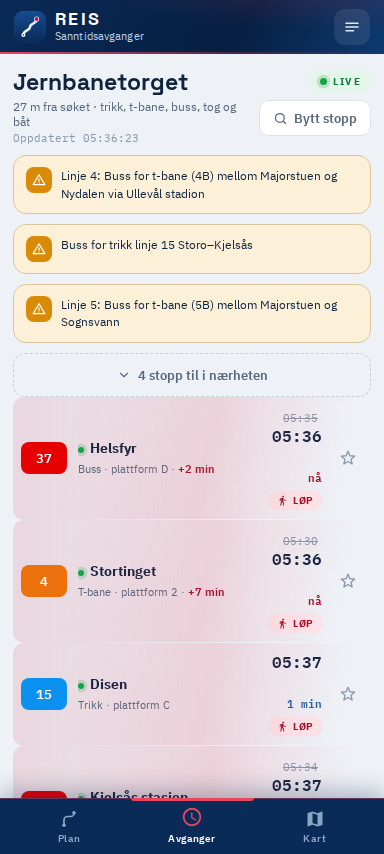
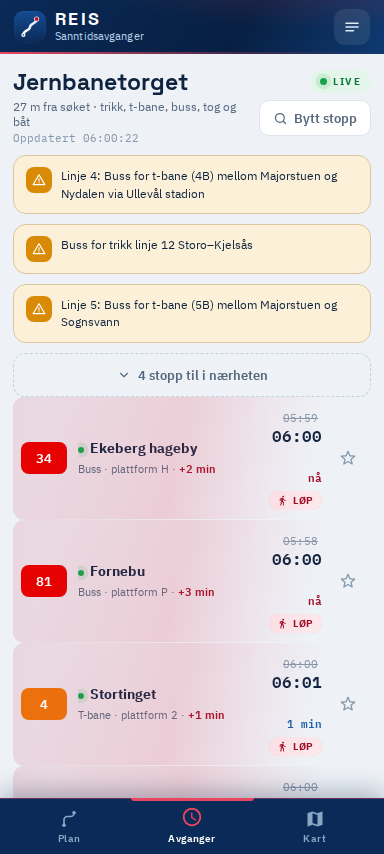
Add files via upload

diff --git a/index.html b/index.html
@@ -1899,38 +1899,76 @@ async function autocomplete(text,focus){
   /* size:8 ga typisk ÉN holdeplass og sju POI-er – stoppet druknet. Vi henter
      flere og sorterer holdeplasser først, siden det er dem folk søker etter i
      en reiseapp. */
-  const q=new URLSearchParams({text,lang:'no',size:'20',layers:'venue,address,street,locality'});
-  const f=focus||state.userPos;
-  if(f&&f.lat){q.set('focus.point.lat',f.lat);q.set('focus.point.lon',f.lon)}
+  /* «Holtet» finnes 19 steder i Norge. Uten et fokuspunkt kommer de i tilfeldig
+     rekkefølge og fyller hele lista – da så det ut som om trikkeholdeplassen
+     ikke fantes. Vi faller nå tilbake på kartets midtpunkt, valgt holdeplass
+     eller Oslo, slik at nære treff alltid vinner. */
+  const q=new URLSearchParams({text,lang:'no',size:'40',layers:'venue,address,street,locality'});
+  const f=focus||state.userPos||(mapUsable()&&mapCenter())||state.departStop||OSLO;
+  if(f&&f.lat!=null){q.set('focus.point.lat',f.lat);q.set('focus.point.lon',f.lon)}
   const j=await fetchJSON(`${GEO}/autocomplete?${q}`,{headers:CLIENT});
   const alle=(j.features||[]).map(f2=>({
     id:f2.properties.id,
     name:f2.properties.name||f2.properties.label,
     label:f2.properties.label||f2.properties.name,
     layer:f2.properties.layer,
+    /* FIX: category er en LISTE. Holtet har ['onstreetBus','onstreetTram',
+       'onstreetBus'] – leste vi bare første element, ble trikkeholdeplassen
+       presentert som bussholdeplass, og rangert deretter. Nå brukes hele
+       lista, og `mode` som Entur også sender med. */
     kat:(f2.properties.category||[])[0]||null,
+    kats:[...new Set(f2.properties.category||[])],
+    modes:[...new Set((f2.properties.mode||[]).flatMap(m=>Object.keys(m||{})))],
+    sted:f2.properties.locality||f2.properties.county||null,
     lat:f2.geometry.coordinates[1],
     lon:f2.geometry.coordinates[0]
   }));
   const erStopp=x=>x.layer==='venue'||isNSR(x.id);
-  const stopp=alle.filter(erStopp), andre=alle.filter(x=>!erStopp(x));
-  /* Holdeplasser først, men aldri på bekostning av at adressen du skrev finnes:
-     minst tre av hver når begge deler er tilgjengelig. */
-  return [...stopp.slice(0,6),...andre.slice(0,6)].slice(0,10);
+  /* Geocoderen gir ett treff per plattform. «Holtet» ble til seks like linjer
+     med buss, mens trikken lå lenger ned og aldri kom med. Slå sammen på navn,
+     og behold det viktigste transportmiddelet for hvert navn. */
+  const RANG={railStation:0,metroStation:1,onstreetTram:2,tramStation:2,
+              ferryStop:3,harbourPort:3,busStation:4,onstreetBus:5,GroupOfStopPlaces:0};
+  /* Rangér etter det VIKTIGSTE transportmiddelet stoppet har, ikke det første
+     som tilfeldigvis sto i lista. */
+  const rang=x=>Math.min(...[...(x.kats||[]),x.kat].map(k=>RANG[k]??6));
+  const sett=new Map();
+  alle.filter(erStopp).forEach(x=>{
+    const n=(x.name||'').toLowerCase();
+    const før=sett.get(n);
+    /* Rekkefølgen fra geocoderen er allerede etter nærhet, så første treff med
+       et navn er det nærmeste. Bytt bare hvis et viktigere transportmiddel
+       dukker opp for samme navn. */
+    if(!før||rang(x)<rang(før))sett.set(n,x);
+  });
+  const stopp=[...sett.values()];
+  const andre=alle.filter(x=>!erStopp(x));
+  /* Holdeplasser først, men aldri slik at adressen du skrev forsvinner. */
+  return [...stopp.slice(0,6),...andre.slice(0,5)].slice(0,10);
 }
 /* Entur merker holdeplasser med kategori – bruk den til å vise HVA treffet er. */
 const KAT_MODE={onstreetTram:'tram',tramStation:'tram',metroStation:'metro',
   onstreetBus:'bus',busStation:'bus',railStation:'rail',ferryStop:'water',
   harbourPort:'water',airport:'air',GroupOfStopPlaces:'bus'};
+/* Alle transportmidlene stoppet betjener, viktigst først. */
+const MODE_ORD=['rail','metro','tram','water','bus','coach','air'];
+function acModes(it){
+  const fra=[...(it.modes||[]),...(it.kats||[]).map(k=>KAT_MODE[k]).filter(Boolean)];
+  const unike=[...new Set(fra)].filter(m=>MODE[m]);
+  return unike.sort((a,b)=>MODE_ORD.indexOf(a)-MODE_ORD.indexOf(b));
+}
 function acIcon(it){
-  const m=KAT_MODE[it.kat];
-  if(m&&MODE[m])return `<span class="ac-mode" style="--mc:${MODE[m].hex}">${MODE[m].icon||IC.route}</span>`;
+  const ms=acModes(it);
+  if(ms.length){
+    const m=MODE[ms[0]];
+    return `<span class="ac-mode" style="--mc:${m.hex}">${m.icon||IC.route}</span>`;
+  }
   if(it.layer==='venue'||isNSR(it.id))return `<span class="ac-mode" style="--mc:${MODE.bus.hex}">${IC.route}</span>`;
   return `<span class="ic">${IC.pin}</span>`;
 }
 function acKind(it){
-  const m=KAT_MODE[it.kat];
-  if(m&&MODE[m])return MODE[m].l;
+  const ms=acModes(it);
+  if(ms.length)return ms.slice(0,3).map(m=>MODE[m].l).join(' · ');
   if(it.layer==='venue'||isNSR(it.id))return 'Holdeplass';
   if(it.layer==='address'||it.layer==='street')return 'Adresse';
   if(it.layer==='locality')return 'Sted';

diff --git a/sw.js b/sw.js
@@ -5,7 +5,7 @@
      kartfliser → cache-first med tak på antall fliser
      API-er     → network-first med cachet fallback (tunnel/dårlig dekning)
 */
-const VERSION = 'v5.8.0';
+const VERSION = 'v5.9.0';
 const SHELL_CACHE = `reis-shell-${VERSION}`;
 const TILE_CACHE = `reis-tiles-${VERSION}`;
 const DATA_CACHE = `reis-data-${VERSION}`;

diff --git a/ENDRINGER.md b/ENDRINGER.md
@@ -2,7 +2,7 @@
 
 Alt under er verifisert mot Entur live 31. juli 2026, ikke gjettet.
 `node test-live.js` kjører appens egne spørringer mot API-et (15 tester),
-`node test-dom.js` tester grensesnitt og logikk i jsdom (220 tester),
+`node test-dom.js` tester grensesnitt og logikk i jsdom (224 tester),
 `python3 shot.py`, `measure.py`, `swipe_test.py`, `fill_test.py`, `qt_test.py`,
 `sec_test.py`, `overlap_test.py`, `perf_test.py`, `font_test.py`, `a11y.py` og
 `polish_test.py`, `plan_test.py`, `soak.py`, `regress_map.py` og `update_test.py`
@@ -164,6 +164,39 @@ Nå:
 
 Testen booter appen i jsdom **uten** Leaflet i det hele tatt og bekrefter at den
 starter, at Plan-fanen tegnes, og at alle kartfunksjonene har vakt.
+
+---
+
+## T-bane og trikk manglet i søket
+
+Meldt av bruker, og en ekte feil med tre lag.
+
+**Kjernen:** geocoderen returnerer `category` som en **liste**. Holtet har
+`['onstreetBus', 'onstreetTram', 'onstreetBus']` – men koden leste bare det
+første elementet. Trikkeholdeplassen ble dermed presentert *og rangert* som
+bussholdeplass. Entur sender også et `mode`-felt (`[{bus},{tram}]`) som vi ikke
+brukte i det hele tatt.
+
+Nå leses hele lista, stoppet rangeres etter sitt **viktigste** transportmiddel,
+og alle vises: **«Trikk · Buss»**.
+
+**To feil til, funnet underveis:**
+
+- **«Holtet» finnes 19 steder i Norge.** Uten et fokuspunkt kom de i tilfeldig
+  rekkefølge og fylte hele lista. Fokuspunktet ble bare satt hvis du hadde gitt
+  posisjonstilgang; nå faller det tilbake på kartets midtpunkt, valgt holdeplass
+  eller Oslo.
+- **Ett treff per plattform.** Samme holdeplass kom seks ganger på rad. Like
+  navn slås nå sammen, og det viktigste transportmiddelet beholdes.
+
+Før og etter, samme søk:
+
+| Søk | Før | Etter |
+|---|---|---|
+| Holtet | Buss, Buss, Buss, Buss, Buss, Buss | **Trikk · Buss**, deretter andre steder |
+| Majorstuen | (bare «Majorstuen» uten type) | **T-bane · Trikk · Buss** |
+| Storo | Buss-treff dominerte | **T-bane · Trikk · Buss** |
+| Tøyen | Buss først | **T-bane · Buss**, så **Tog · Buss** |
 
 ---
 
